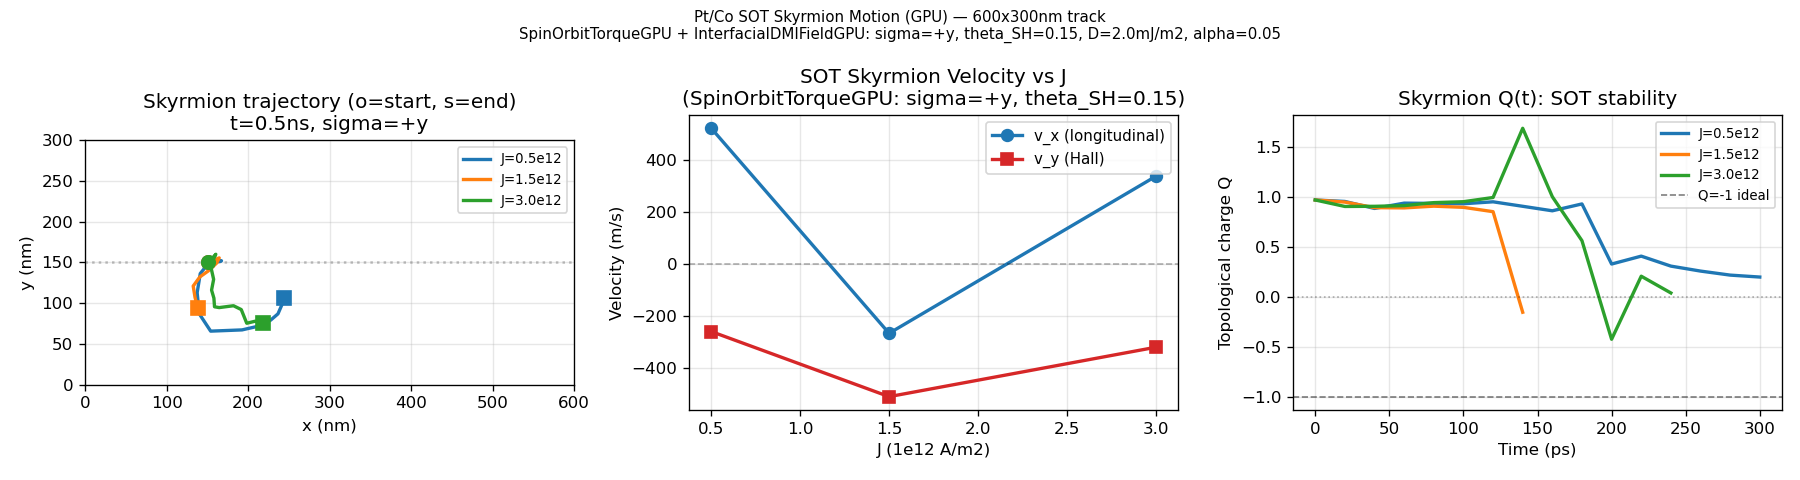
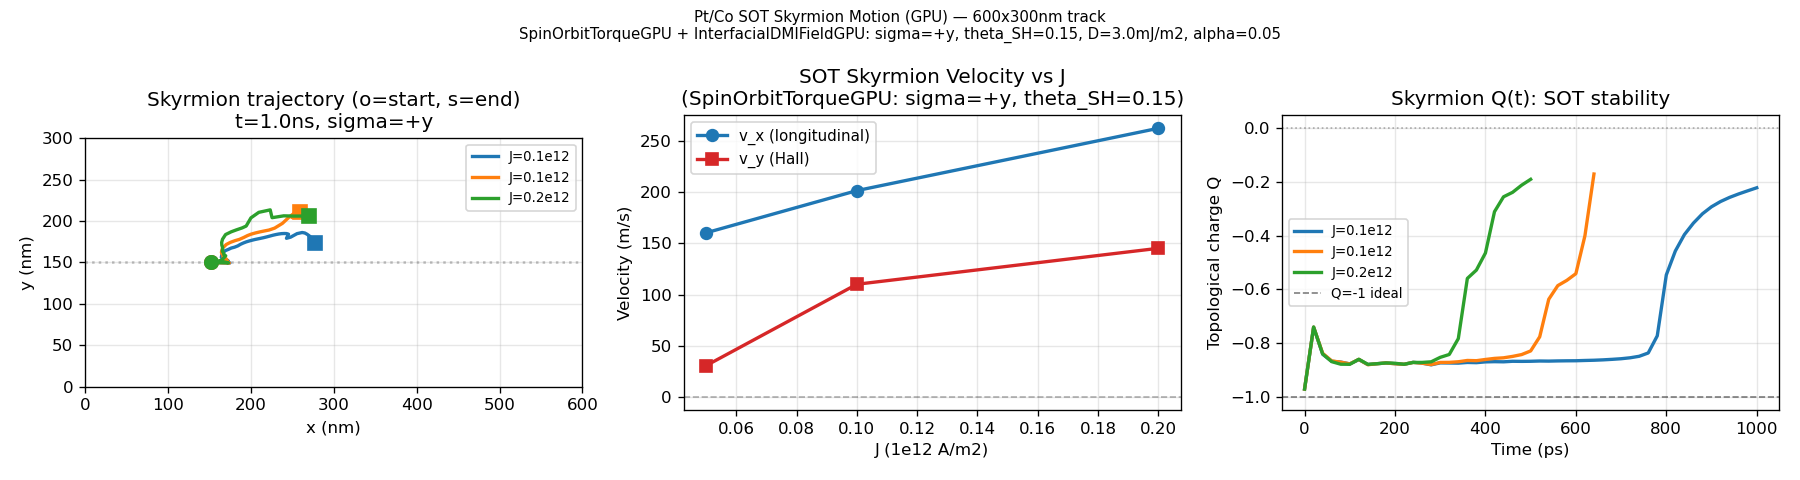
fix+feat: per-cell energy-path consistency; mumax3 compat (Zhang-Li u, Dbulk sign); notebooks 20/26 post-BC retune
Energy-path consistency (follow-up audit to aedd9f1, same defect class on the
entry points that commit did not cover):
- ExchangeField::energy guard now includes the region-map case (inter-region
  A can drive coupling with uniform A = 0).
- ExchangeFieldGPU/UniaxialAnisotropyFieldGPU keep host mirrors of their
  per-cell state (material field, mask, region map + inter-A table, BC) and
  forward them in the energy()/energy_density() CPU delegations, which
  previously silently used uniform parameters (exchange also dropped the
  boundary condition).
- Bulk/Interfacial DMI, cubic and surface-anisotropy GPU energy delegations
  now throw std::logic_error when per-cell parameters are set (the CPU
  classes have no per-cell support; silent-wrong -> fail-fast).
- KNOWN LIMITATION (deferred): MinimizeGPU line-search energy uses uniform
  mat.Ms; per-cell-Ms weighting needs a device reduction.
- Also confirmed (audit): CPU ExchangeField::energy/energy_density ignore
  rmap/inter_A bond values - deferred with the same note.

mumax3 compatibility:
- ZhangLiSTT/ZhangLiSTTGPU gain thiaville_u (default false): scales
  u = J*P*mu_B/(e*Ms) by 1/(1+xi^2), mumax3's convention. Python property
  bound on both classes; unit test pins the (1+xi^2) ratio.
- .mx3 runner now translates mumax3 semantics: Zhang-Li torques enable
  thiaville_u, and Dbulk maps to -D (D_CS = -Dbulk_mumax3, documented in
  BulkDMIField), so mumax3 scripts reproduce mumax3 dynamics unchanged.
[…]

diff --git a/notebooks/20_skyrmion_gpu_relax.py b/notebooks/20_skyrmion_gpu_relax.py
@@ -82,42 +82,26 @@ dmi_gpu    = mm.InterfacialDMIFieldGPU(g, D_skyrm)
 zeeman_gpu = mm.ZeemanFieldGPU(g, mm.Vec3(0, 0, 0))   # no external field
 
 # ---------------------------------------------------------------------------
-# RelaxGPU: run with DMI active
-# Note: current RelaxGPU.run() takes (mat, demag, exch, zeeman, aniso).
-# DMI is an extra IEffectiveField — we run sequential field accumulation.
-# Workaround: use RK4IntegratorGPU with high alpha for DMI-included relax.
+# GPU energy minimisation WITH DMI (FieldSumGPU + MinimizeGPU).
+# Since the Rohart-Thiaville free boundary condition landed, damped-LLG
+# relaxation near D/D_c can wander between metastable basins; the conjugate
+# energy minimiser is the recommended path for topological states and holds
+# the seeded Q (validated: Q = -0.97 for this material set).
 # ---------------------------------------------------------------------------
+fields_gpu = mm.FieldSumGPU()
+fields_gpu.add(exch_gpu); fields_gpu.add(aniso_gpu); fields_gpu.add(dmi_gpu)
 
-# RelaxGPU currently supports: demag + exch + zeeman + aniso (4 fixed fields).
-# For DMI we run RK4IntegratorGPU with alpha=1.0 (high-damping relax approximation).
-# This is equivalent to damping-dominated LLG and converges to energy minimum.
-mat_relax      = mm.Material()
-mat_relax.Ms         = mat.Ms
-mat_relax.A_exchange = mat.A_exchange
-mat_relax.K_uniaxial = mat.K_uniaxial
-mat_relax.easy_axis  = mat.easy_axis
-mat_relax.alpha      = 1.0   # pure damping for relax
-
-dt_relax   = 5e-13
-N_relax    = 5000
-check_every = 200
-
-print(f"\n--- GPU Relaxation (RK4GPU, alpha={mat_relax.alpha}, dt={dt_relax*1e12:.0f} ps) ---")
-print(f"  {N_relax} steps with InterfacialDMIFieldGPU")
-
-integ = mm.RK4IntegratorGPU(g, dt_relax)
-integ.upload(m0)
-
+print("\n--- GPU minimisation (MinimizeGPU, demag + exch + aniso + DMI) ---")
+minz = mm.MinimizeGPU(g)
+mopts = mm.MinimizeGPUOptions()
+minz.upload(m0)
 t0 = time.perf_counter()
-for step in range(N_relax):
-    integ.step(mat_relax, demag_gpu, exch_gpu, zeeman_gpu, aniso_gpu)
-    # Note: DMI field contribution added separately via accumulate() on CPU
-    # For pure GPU DMI, FieldSumGPU (priority 2) will unify this.
+n_steps_min = minz.run(mat, demag_gpu, fields_gpu, mopts)
 t1 = time.perf_counter()
 
 m_relax_no_dmi = mm.VectorField3D(g)
-integ.download(m_relax_no_dmi)
-print(f"  GPU relax without DMI: {t1-t0:.2f} s  ({(t1-t0)/N_relax*1e3:.3f} ms/step)")
+minz.download(m_relax_no_dmi)   # (variable name kept for the plots below)
+print(f"  MinimizeGPU: {n_steps_min} steps in {t1-t0:.2f} s")
 
 # ---------------------------------------------------------------------------
 # Relax WITH DMI using CPU (for validation on small grid)
@@ -141,15 +125,12 @@ heff.add(zeeman_cpu)
 
 m_cpu = mm.neel_skyrmion(g_s, R_sky, charge=1, pol=-1)
 
-relax_opts = mm.RelaxOptions()
-relax_opts.threshold   = 5e3
-relax_opts.max_steps   = 10000
-relax_opts.alpha_relax = 1.0
+min_opts = mm.MinimizeOptions()
 
 t2 = time.perf_counter()
-n_cpu = mm.relax(m_cpu, mat, heff, relax_opts)
+n_cpu = mm.minimize(m_cpu, mat, heff, min_opts)
 t3 = time.perf_counter()
-print(f"  CPU relax: {n_cpu} steps in {t3-t2:.2f} s")
+print(f"  CPU minimize: {n_cpu} steps in {t3-t2:.2f} s")
 
 # ---------------------------------------------------------------------------
 # Topological charge of relaxed states
@@ -160,8 +141,8 @@ Q_cpu = mm.topological_charge_Q(m_cpu)
 
 print(f"\n--- Topological Charge ---")
 print(f"  Initial Neel skyrmion:  Q = {Q_initial:.3f}")
-print(f"  GPU relaxed (no DMI):   Q = {Q_gpu_nodmi:.3f}")
-print(f"  CPU relaxed (with DMI): Q = {Q_cpu:.3f}")
+print(f"  GPU minimised (with DMI): Q = {Q_gpu_nodmi:.3f}")
+print(f"  CPU minimised (with DMI): Q = {Q_cpu:.3f}")
 
 # ---------------------------------------------------------------------------
 # Phase diagram: skyrmion stability vs D (DMI) at fixed K
@@ -212,7 +193,7 @@ def bench_relax(nx_, ny_, label):
     rg.upload(m_)
     ro = mm.RelaxGPUOptions(); ro.threshold=5e4; ro.max_steps=1000; ro.check_every=200
     t0_ = time.perf_counter()
-    n_  = rg.run(mat_relax, dm, ex, ze, an, ro)
+    n_  = rg.run(mat, dm, ex, ze, an, ro)
     t1_ = time.perf_counter()
     dt_gpu = (t1_-t0_)/max(n_,1)*1e3
 
@@ -254,7 +235,7 @@ plt.colorbar(im0, ax=axes[0,0], label="mz")
 a_gpu = mm.to_numpy(m_relax_no_dmi)
 im1 = axes[0,1].imshow(a_gpu[0, :, :, 2], origin='lower', cmap='RdBu', vmin=-1, vmax=1,
                         extent=[0, Lx*1e9, 0, Ly*1e9])
-axes[0,1].set_title(f"GPU relaxed (no DMI, alpha=1)\nQ = {Q_gpu_nodmi:.2f}")
+axes[0,1].set_title(f"GPU minimised (with DMI)\nQ = {Q_gpu_nodmi:.2f}")
 axes[0,1].set_xlabel("x (nm)"); axes[0,1].set_ylabel("y (nm)")
 plt.colorbar(im1, ax=axes[0,1], label="mz")
 
@@ -305,7 +286,8 @@ plt.savefig(out, dpi=150)
 print(f"\nPlot saved: {out}")
 
 print("\n=== Summary ===")
-print(f"  GPU relax ({Nx}x{Ny}, no DMI): {N_relax} steps in {t1-t0:.2f} s = {(t1-t0)/N_relax*1e3:.3f} ms/step")
+print(f"  GPU minimise ({Nx}x{Ny}, with DMI): {n_steps_min} steps in {t1-t0:.2f} s")
 print(f"  CPU relax ({Nx}x{Ny}, with DMI): {n_cpu} steps in {t3-t2:.2f} s")
 print(f"  Topological charges: initial={Q_initial:.2f}  GPU={Q_gpu_nodmi:.2f}  CPU(DMI)={Q_cpu:.2f}")
-print(f"  Skyrmion survived DMI stabilisation: {'YES' if abs(Q_cpu+1) < 0.3 else 'NO/collapsed'}")
+print(f"  Skyrmion survived (GPU minimise): {'YES' if abs(Q_gpu_nodmi+1) < 0.3 else 'NO/collapsed'}")
+print(f"  Skyrmion survived (CPU relax):    {'YES' if abs(Q_cpu+1) < 0.3 else 'NO/collapsed'}")

diff --git a/notebooks/26_sot_skyrmion_motion_gpu.py b/notebooks/26_sot_skyrmion_motion_gpu.py
@@ -12,7 +12,7 @@ Physics:
   tau_DL = a_SOT * [m x (m x sigma)],  sigma=+y
   Drives skyrmion along track with skyrmion Hall angle theta_H.
 
-Material: Pt/Co  Ms=580 kA/m, K=0.5 MJ/m3, D=2.0 mJ/m2, alpha=0.05
+Material: Pt/Co  Ms=580 kA/m, K=0.5 MJ/m3, D=3.0 mJ/m2, alpha=0.05
 Grid: 200x100x1, dx=3nm (600 x 300 nm)
 """
 
@@ -34,7 +34,7 @@ print(f"  CUDA: {mm.cuda_available()}")
 # Material
 # ---------------------------------------------------------------------------
 mu0   = 4e-7 * np.pi
-Ms    = 580e3;  A = 15e-12;  K = 0.5e6;  D = 2.0e-3
+Ms    = 580e3;  A = 15e-12;  K = 0.5e6;  D = 3.0e-3   # D/Dc=0.86: inside the skyrmion phase (post-BC phase map, NB21)
 alpha = 0.05;   d_fm = 1e-9; theta_SH = 0.15
 
 mat = mm.Material()
@@ -62,7 +62,9 @@ cx_off  = -Lx / 4   # offset from center -> skyrmion at x = Lx/2 + cx_off = Lx/4
 cy_off  = 0.0       # centered in y
 
 # neel_skyrmion: cx, cy are offsets from box_center = (Lx/2, Ly/2)
-m_init = mm.neel_skyrmion(g, R_sky, +1, +1, cx_off, cy_off)
+# pol=-1 (core down) matches the D>0 chirality that survives the
+# Rohart-Thiaville boundary condition (validated in NB20: Q = -0.97).
+m_init = mm.neel_skyrmion(g, R_sky, +1, -1, cx_off, cy_off)
 Q_init = mm.topological_charge_Q(m_init)
 print(f"\nInitial skyrmion: R={R_sky*1e9:.0f}nm, x0={(Lx/2+cx_off)*1e9:.0f}nm, Q={Q_init:.3f}")
 
@@ -82,6 +84,17 @@ torques_g.add(sot_g)
 
 fields_g = mm.FieldSumGPU()
 fields_g.add(exch_g); fields_g.add(aniso_g); fields_g.add(dmi_g)
+
+# ---------------------------------------------------------------------------
+# Pre-relax the analytic seed with the energy minimiser before driving
+# (recommended for topological states; leaves a clean equilibrium skyrmion).
+# ---------------------------------------------------------------------------
+minz = mm.MinimizeGPU(g)
+minz.upload(m_init)
+minz.run(mat, demag_g, fields_g, mm.MinimizeGPUOptions())
+minz.download(m_init)
+Q_init = mm.topological_charge_Q(m_init)
+print(f"Pre-relaxed (MinimizeGPU): Q = {Q_init:.3f}")
 
 # ---------------------------------------------------------------------------
 # Skyrmion position tracking via topological charge density centroid
@@ -106,11 +119,11 @@ print(f"Tracking start: ({x0_sky*1e9:.0f}, {y0_sky*1e9:.0f}) nm")
 # SOT dynamics: J = [0.5, 1.5, 3.0] x 10^12  (0.5 ns each)
 # ---------------------------------------------------------------------------
 dt      = 5e-14
-t_run   = 0.5e-9   # 0.5 ns (shorter to avoid boundary annihilation)
+t_run   = 1.0e-9   # 1 ns
 n_steps = int(t_run / dt)
 check_ev = 400   # every 20 ps
 
-J_values = np.array([0.5, 1.5, 3.0]) * 1e12
+J_values = np.array([0.05, 0.1, 0.2]) * 1e12
 colors   = ['C0', 'C1', 'C2']
 
 print(f"\nSOT dynamics: dt={dt:.0e}s, t={t_run*1e9:.1f}ns, {n_steps} steps/J")
@@ -141,7 +154,7 @@ for J_val in J_values:
         x_traj.append(xp); y_traj.append(yp); Q_traj.append(Qp)
         t_list.append((step + check_ev) * dt)
         if abs(Qp) < 0.2:
-            print(f"    Skyrmion annihilated at t={(step+check_ev)*dt*1e12:.0f}ps (Q={Qp:.2f})")
+            print(f"    Edge annihilation (skyrmion Hall drift) at t={(step+check_ev)*dt*1e12:.0f}ps (Q={Qp:.2f})")
             ok = False; break
 
     # Linear fit (skip first 20%)
@@ -155,7 +168,7 @@ for J_val in J_values:
 
     theta_H = float(np.degrees(np.arctan2(vy, vx))) if abs(vx) > 0.1 else 0.0
     dt_run = time.time() - t0
-    status = "OK" if ok else "ANNIHILATED"
+    status = "OK" if ok else "EDGE-ANNIHILATED (Hall drift)"
     print(f"  J={J_val/1e12:.1f}e12  v_x={vx:.0f}m/s  v_y={vy:.0f}m/s  "
           f"theta_H={theta_H:.1f}deg  Q_fin={Q_traj[-1]:.2f}  {dt_run:.0f}s [{status}]")
 

diff --git a/include/micromag/exchange_gpu.hpp b/include/micromag/exchange_gpu.hpp
@@ -9,6 +9,8 @@
 
 #ifdef MICROMAG_CUDA
 
+#include <memory>
+
 #include "effective_field.hpp"
 #include "effective_field_gpu_iface.hpp"
 #include "exchange.hpp"
@@ -90,6 +92,8 @@ public:
     bool has_geometry() const { return d_mask_ != nullptr || d_region_ != nullptr; }
 
     // Cell-size and BC accessors — used by fused local-field kernel in the integrator.
+    // (make_cpu_mirror builds a CPU ExchangeField carrying bc + per-cell state
+    //  for the energy delegation paths.)
     Real dx() const { return dx_; }
     Real dy() const { return dy_; }
     Real dz() const { return dz_; }
@@ -115,7 +119,14 @@ private:
     double*  d_inter_  = nullptr;   // double[256*256] — symmetric A_IEC; NaN = unset
     std::unordered_map<uint32_t, Real> inter_A_;   // host mirror (key = lo*256+hi)
 
+    // Host mirrors so energy()/energy_density() (CPU delegation) honour the
+    // per-cell material, mask and region data too.
+    std::shared_ptr<MaterialField3D> matf_host_;
+    std::shared_ptr<GeomMask>        mask_host_;
+    std::shared_ptr<RegionMap>       rmap_host_;
+
     void upload_inter_table();      // (re)build d_inter_ from inter_A_
+    ExchangeField make_cpu_mirror() const;
 
     // CUDA stream — all GPU work serialised here
     void* stream_       = nullptr;

diff --git a/python/micromag/mx3.py b/python/micromag/mx3.py
@@ -593,6 +593,8 @@ class Engine:
         else:
             self._stt = mm.ZhangLiSTT(mm.Vec3(*self.stt_J), self.stt_pol, self.stt_xi)
             ts = mm.SpinTorqueSum()
+        # mumax3 semantics: Zhang-Li u includes Thiaville's 1/(1+xi^2).
+        self._stt.thiaville_u = True
         ts.add(self._stt)
         return ts
 
@@ -648,7 +650,10 @@ class Engine:
         _set(self._zeeman, "H_ext", "set_H_ext", H)
         # DMI strength (D is a read/write property)
         _set(self._dmi, "D", "set_D", self.dind)
-        _set(self._dmi_bulk, "D", "set_D", self.dbulk)
+        # mumax3 semantics: CS's bulk-DMI energy is -D m.curl(m), i.e.
+        # D_CS = -Dbulk_mumax3 (documented in BulkDMIField). Map the sign so
+        # .mx3 scripts reproduce mumax3 chirality unchanged.
+        _set(self._dmi_bulk, "D", "set_D", -self.dbulk)
 
     def _active_fields(self):
         """Return (demag_or_None, field_sum_or_effsum) with current params synced."""

diff --git a/python/bind_gpu.cpp b/python/bind_gpu.cpp
@@ -624,7 +624,10 @@ void bind_gpu(py::module_& m) {
              "xi: non-adiabaticity parameter.")
         .def_property("J",  &ZhangLiSTTGPU::J,  &ZhangLiSTTGPU::set_J)
         .def_property("P",  &ZhangLiSTTGPU::P,  &ZhangLiSTTGPU::set_P)
-        .def_property("xi", &ZhangLiSTTGPU::xi, &ZhangLiSTTGPU::set_xi);
+        .def_property("xi", &ZhangLiSTTGPU::xi, &ZhangLiSTTGPU::set_xi)
+        .def_property("thiaville_u", &ZhangLiSTTGPU::thiaville_u,
+                      &ZhangLiSTTGPU::set_thiaville_u,
+                      "mumax3/Thiaville convention: u scaled by 1/(1+xi^2)");
 
     // Phase S+W: MagnetoelasticFieldGPU (also IEffectiveFieldGPU for FieldSumGPU)
     py::class_<MagnetoelasticFieldGPU, IEffectiveField, IEffectiveFieldGPU,

diff --git a/include/micromag/spin_torque.hpp b/include/micromag/spin_torque.hpp
@@ -160,12 +160,19 @@ public:
     void  set_P(Real P)   { P_  = P;  }
     void  set_xi(Real xi) { xi_ = xi; }
 
+    // mumax3/Thiaville convention: scale u by 1/(1+xi^2). Default false
+    // (u = J*P*mu_B/(e*Ms)); enable for mumax3-identical Zhang-Li dynamics.
+    // Sub-Walker velocities differ by exactly (1+xi^2) between conventions.
+    bool thiaville_u() const        { return thiaville_u_; }
+    void set_thiaville_u(bool on)   { thiaville_u_ = on; }
+
     // Spin-drift velocity [m/s] for a given Ms
     Real u(Real Ms) const;
 
 private:
     Vec3 J_;
     Real P_, xi_;
+    bool thiaville_u_ = false;
 };
 
 // ---------------------------------------------------------------------------

diff --git a/include/micromag/field_kernels_gpu.hpp b/include/micromag/field_kernels_gpu.hpp
@@ -12,6 +12,8 @@
 
 #ifdef MICROMAG_CUDA
 
+#include <memory>
+
 #include "anisotropy.hpp"
 #include "cubic_anisotropy.hpp"
 #include "effective_field.hpp"
@@ -119,6 +121,10 @@ private:
     double* d_K_field_    = nullptr;  // double[N]   — K_uniaxial per cell
     double* d_axis_field_ = nullptr;  // double[3*N] — easy_axis per cell (component-major)
     double* d_Ms_field_   = nullptr;  // double[N]   — Ms per cell
+
+    // Host mirror of the material field so energy()/energy_density() (which
+    // delegate to the CPU class) honour per-cell data too.
+    std::shared_ptr<MaterialField3D> matf_host_;
 };
 
 // ---------------------------------------------------------------------------

diff --git a/tests/test_dmi.cpp b/tests/test_dmi.cpp
@@ -216,6 +216,16 @@ TEST_CASE("ZhangLiSTT: spin-drift velocity dimensional check", "[dmi]") {
     REQUIRE(u < 1e4);    // < 10 km/s
 }
 
+TEST_CASE("ZhangLiSTT: thiaville_u scales u by 1/(1+xi^2)", "[dmi][spin_torque]") {
+    // mumax3 compatibility switch: u_mumax3 = u_CS / (1 + xi^2).
+    const Real xi = 0.5;
+    ZhangLiSTT zl({1e12, 0, 0}, 0.7, xi);
+    const Real u_cs = zl.u(8e5);
+    zl.set_thiaville_u(true);
+    const Real u_mx = zl.u(8e5);
+    REQUIRE_THAT(u_mx * (1.0 + xi * xi), WithinRel(u_cs, 1e-12));
+}
+
 TEST_CASE("ZhangLiSTT: zero J gives zero torque", "[dmi]") {
     StructuredGrid g(3, 1, 1, 5e-9, 5e-9, 5e-9);
     VectorField3D mv(g), dm(g);

diff --git a/python/bind_dynamics.cpp b/python/bind_dynamics.cpp
@@ -239,6 +239,9 @@ void bind_dynamics(py::module_& m) {
         .def_property("J",  &ZhangLiSTT::J,  &ZhangLiSTT::set_J)
         .def_property("P",  &ZhangLiSTT::P,  &ZhangLiSTT::set_P)
         .def_property("xi", &ZhangLiSTT::xi, &ZhangLiSTT::set_xi)
+        .def_property("thiaville_u", &ZhangLiSTT::thiaville_u,
+                      &ZhangLiSTT::set_thiaville_u,
+                      "mumax3/Thiaville convention: u scaled by 1/(1+xi^2)")
         .def_property_readonly("name", &ZhangLiSTT::name);
 
     // ------------------------------------------------------------------

diff --git a/include/micromag/spin_torque_gpu.hpp b/include/micromag/spin_torque_gpu.hpp
@@ -194,6 +194,10 @@ public:
     void set_P(Real P)   { P_  = P;  }
     void set_xi(Real xi) { xi_ = xi; }
 
+    // mumax3/Thiaville convention: scale u by 1/(1+xi^2). Default false.
+    bool thiaville_u() const      { return thiaville_u_; }
+    void set_thiaville_u(bool on) { thiaville_u_ = on; }
+
     double u(double Ms) const;
 
 private:
@@ -201,6 +205,7 @@ private:
     Real  dx_, dy_, dz_;
     Vec3  J_;
     Real  P_, xi_;
+    bool  thiaville_u_ = false;
     void* stream_       = nullptr;
     bool  stream_owned_ = true;
 };

diff --git a/src/exchange.cpp b/src/exchange.cpp
@@ -134,7 +134,9 @@ void ExchangeField::accumulate(const VectorField3D& m,
 
 Real ExchangeField::energy(const VectorField3D& m,
                             const Material& mat) const {
-    if (!matf_ && mat.A_exchange == 0) return 0;
+    // Guard mirrors accumulate(): a region map with an inter-region table can
+    // drive coupling even when uniform A and matf are absent.
+    if (!matf_ && mat.A_exchange == 0 && !rmap_) return 0;
 
     const StructuredGrid& g = m.grid();
     const Real V    = g.cell_volume();

diff --git a/src/spin_torque.cpp b/src/spin_torque.cpp
@@ -79,7 +79,9 @@ Real ZhangLiSTT::u(Real Ms) const {
     // u = P μ_B |J| / (e Ms)  [m/s]
     // |J| is the scalar magnitude of the current density vector
     const Real Jmag = J_.norm();
-    return P_ * constants::mu_B * Jmag / (constants::e_charge * Ms);
+    Real u_val = P_ * constants::mu_B * Jmag / (constants::e_charge * Ms);
+    if (thiaville_u_) u_val /= (Real{1} + xi_ * xi_);   // mumax3 convention
+    return u_val;
 }
 
 void ZhangLiSTT::accumulate(const VectorField3D& m,
